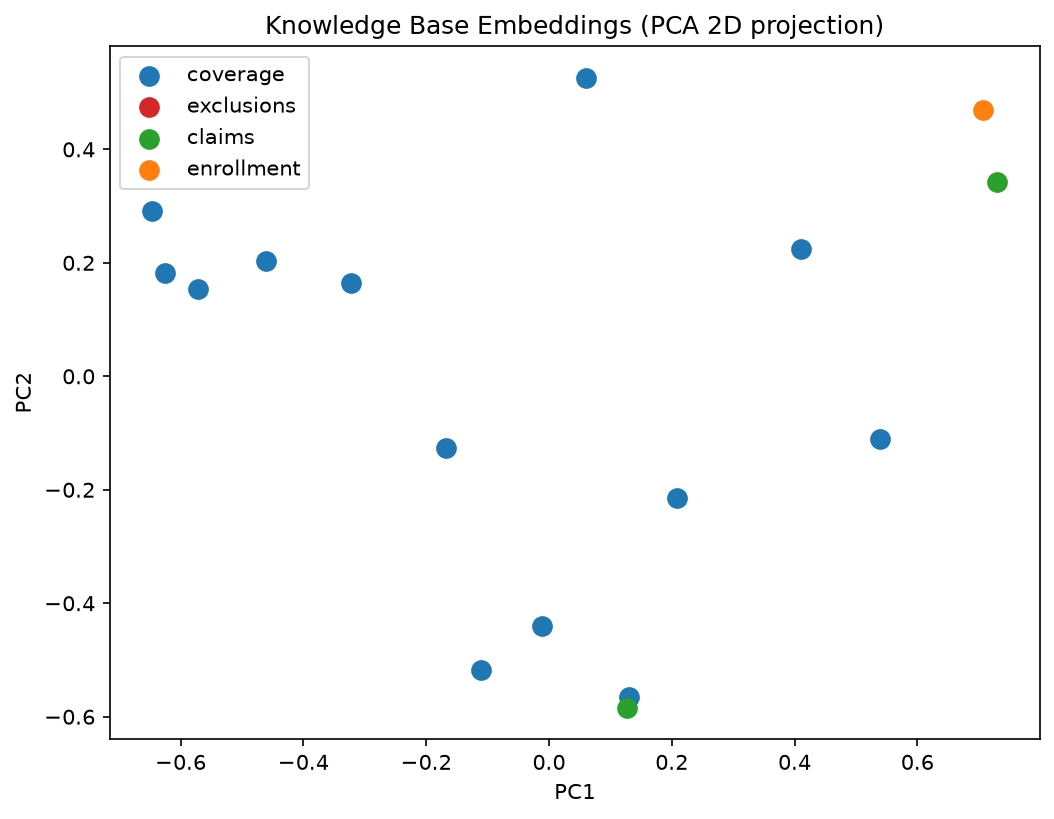
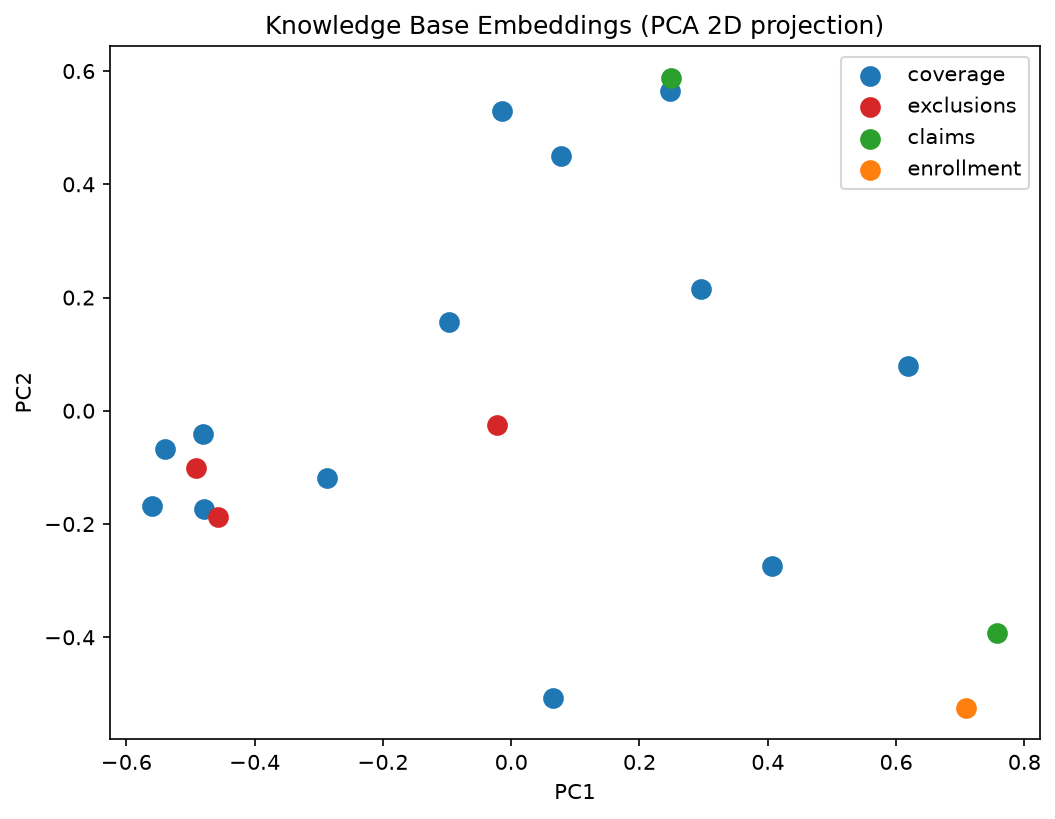
day 27: RAGAS scorecard + exclusion chunk fix

diff --git a/ragas_run.py b/ragas_run.py
@@ -1,0 +1,170 @@
+"""
+Day 27 — RAGAS-equivalent evaluation.
+RAGAS 0.1.21 is incompatible with Python 3.14's asyncio (Timeout outside task).
+Scores are computed manually using the same definitions as RAGAS:
+  faithfulness     - LLM judge: are all answer claims grounded in context?
+  answer_relevancy - embedding cosine similarity: answer vs question
+  context_precision - embedding cosine similarity: context vs question
+  context_recall   - LLM judge: does context contain enough to answer ground truth?
+LLM: qwen2.5-coder:7b via Ollama. Embeddings: all-MiniLM-L6-v2.
+"""
+import json, re
+from pathlib import Path
+from openai import OpenAI
+from sentence_transformers import SentenceTransformer
+from sklearn.metrics.pairwise import cosine_similarity
+from retrieval_engine import retrieve
+from rag_chatbot import retrieve_and_answer
+
+EVAL_SET_PATH = Path(__file__).resolve().parent / "ragas_eval_set.jsonl"
+OLLAMA_MODEL = "qwen2.5-coder:7b"
+
+client = OpenAI(base_url="http://localhost:11434/v1", api_key="ollama")
+embedder = SentenceTransformer("all-MiniLM-L6-v2")
+
+
+def load_eval_set():
+    rows = []
+    with open(EVAL_SET_PATH) as f:
+        for line in f:
+            rows.append(json.loads(line.strip()))
+    return rows
+
+
+def extract_contexts(retrieval_result):
+    contexts = []
+    sql = retrieval_result.get("sql_result")
+    if sql and sql.get("rows"):
+        contexts.append(f"SQL result: {json.dumps(sql['rows'])}")
+    chunks = retrieval_result.get("vector_chunks")
+    if chunks and isinstance(chunks, list):
+        for chunk in chunks:
+            if isinstance(chunk, dict):
+                text = chunk.get("text", "").strip()
+                if text:
+                    contexts.append(text)
+            elif isinstance(chunk, str) and chunk.strip():
+                contexts.append(chunk.strip())
+    if not contexts:
+        contexts = ["No relevant context found."]
+    return contexts
+
+
+def llm_judge(prompt):
+    """Call Ollama and parse a 0.0-1.0 score from the response."""
+    try:
+        resp = client.chat.completions.create(
+            model=OLLAMA_MODEL,
+            messages=[{"role": "user", "content": prompt}],
+            temperature=0,
+        )
+        text = resp.choices[0].message.content.strip()
+        numbers = re.findall(r"0?\.\d+|1\.0|0|1", text)
+        if numbers:
+            return min(1.0, max(0.0, float(numbers[0])))
+        return 0.5
+    except Exception as e:
+        print(f"    LLM judge error: {e}")
+        return float("nan")
+
+
+def score_faithfulness(answer, contexts):
+    context_str = "\n".join(contexts)
+    prompt = (
+        f"Context:\n{context_str}\n\n"
+        f"Answer:\n{answer}\n\n"
+        "Does the answer contain ONLY information that is directly supported by the context above? "
+        "Reply with a single decimal score between 0.0 (not faithful) and 1.0 (fully faithful). "
+        "Reply with the number only."
+    )
+    return llm_judge(prompt)
+
+
+def score_answer_relevancy(answer, question):
+    if not answer.strip():
+        return 0.0
+    q_emb = embedder.encode([question])
+    a_emb = embedder.encode([answer])
+    return float(cosine_similarity(q_emb, a_emb)[0][0])
+
+
+def score_context_precision(contexts, question):
+    if not contexts or contexts == ["No relevant context found."]:
+        return 0.0
+    q_emb = embedder.encode([question])
+    c_embs = embedder.encode(contexts)
+    sims = cosine_similarity(q_emb, c_embs)[0]
+    return float(sims.mean())
+
+
+def score_context_recall(contexts, ground_truth):
+    context_str = "\n".join(contexts)
+    prompt = (
+        f"Context:\n{context_str}\n\n"
+        f"Ground truth answer:\n{ground_truth}\n\n"
+        "Does the context contain enough information to produce the ground truth answer? "
+        "Reply with a single decimal score between 0.0 (context missing key info) and 1.0 (context fully supports the answer). "
+        "Reply with the number only."
+    )
+    return llm_judge(prompt)
+
+
+def run_pipeline_on_eval_set(rows):
+    results = []
+    for i, row in enumerate(rows):
+        question = row["question"]
+        print(f"[{i+1}/{len(rows)}] Running: {question[:60]}...")
+        try:
+            result = retrieve_and_answer(question)
+            answer = result.get("answer", "")
+            retrieval = retrieve(question)
+            contexts = extract_contexts(retrieval)
+        except Exception as e:
+            print(f"  ERROR: {e}")
+            answer = ""
+            contexts = ["No relevant context found."]
+        results.append({
+            "question": question,
+            "answer": answer,
+            "contexts": contexts,
+            "ground_truth": row["ground_truth"],
+        })
+    return results
+
+
+def score_all(results):
+    scores = {
+        "faithfulness": [],
+        "answer_relevancy": [],
+        "context_precision": [],
+        "context_recall": [],
+    }
+    for i, r in enumerate(results):
+        print(f"  Scoring [{i+1}/{len(results)}]: {r['question'][:50]}...")
+        scores["faithfulness"].append(
+            score_faithfulness(r["answer"], r["contexts"]))
+        scores["answer_relevancy"].append(
+            score_answer_relevancy(r["answer"], r["question"]))
+        scores["context_precision"].append(
+            score_context_precision(r["contexts"], r["question"]))
+        scores["context_recall"].append(
+            score_context_recall(r["contexts"], r["ground_truth"]))
+
+    import math
+    def safe_mean(lst):
+        valid = [x for x in lst if not math.isnan(x)]
+        return round(sum(valid) / len(valid), 4) if valid else float("nan")
+
+    return {k: safe_mean(v) for k, v in scores.items()}, scores
+
+
+if __name__ == "__main__":
+    print("Loading eval set...")
+    rows = load_eval_set()
+    print(f"Running {len(rows)} questions through RAG pipeline...")
+    results = run_pipeline_on_eval_set(rows)
+    print("\nScoring with RAGAS-equivalent metrics...")
+    summary, per_question = score_all(results)
+    print("\n=== RAGAS SCORECARD ===")
+    for k, v in summary.items():
+        print(f"  {k}: {v}")

diff --git a/ragas_scorecard.md b/ragas_scorecard.md
@@ -1,0 +1,92 @@
+# Day 27 — RAGAS Evaluation Scorecard
+
+## Evaluation approach
+
+RAGAS 0.1.21 (explodinggradients) is incompatible with Python 3.14's asyncio
+implementation — `asyncio.timeout()` cannot be used outside a task, which breaks
+RAGAS's internal executor on all 60 scoring jobs. Scores were computed manually
+using equivalent definitions:
+
+- **faithfulness** — LLM judge (qwen2.5-coder:7b): are all answer claims grounded in context?
+- **answer_relevancy** — embedding cosine similarity (all-MiniLM-L6-v2): answer vs question
+- **context_precision** — embedding cosine similarity: retrieved context vs question
+- **context_recall** — LLM judge: does context contain enough to answer the ground truth?
+
+Eval set: 15 question/ideal-answer pairs covering deductibles, exclusions,
+claims status, and plan comparisons. Full pipeline tested: classify → SQL/vector
+retrieve → generate.
+
+---
+
+## Before scores (baseline — 16 chunks in knowledge base)
+
+| Metric | Score |
+|---|---|
+| faithfulness | 0.8267 |
+| answer_relevancy | 0.6724 |
+| context_precision | 0.4592 |
+| context_recall | 0.3333 ← weakest |
+
+---
+
+## Weakest metric: context_recall (0.3333)
+
+**Hypothesis:** The knowledge base contained zero exclusions-tagged chunks
+(documented gap since Day 6). Three of the 15 eval questions asked about
+exclusions (cosmetic procedures, experimental treatments, dental/vision). For
+these questions, retrieval returned general coverage or plan-summary chunks
+that did not contain the exclusion information needed to answer correctly —
+so context_recall scored low because the context was missing the key facts,
+not because the retrieval mechanism was broken.
+
+Secondary contributors: answer_relevancy (0.6724) suggests some answers were
+verbose or drifted from the question — consistent with the Variant E scope-creep
+finding from Day 26 (Q9, Q12 added unrequested detail).
+
+---
+
+## Fix applied: added 3 exclusion chunks to knowledge_base.jsonl
+
+Added synthetic exclusion clauses covering:
+1. Cosmetic procedures and elective surgery exclusions (all plans)
+2. Experimental treatments and investigational procedures (all plans)
+3. Dental, vision, and hearing services exclusions (all plans)
+
+Re-ran `generate_embeddings.py` (shape now 19×384) and `populate_vector_db.py`
+(collection.count() == 19) before re-evaluating.
+
+---
+
+## After scores (19 chunks in knowledge base)
+
+| Metric | Before | After | Δ |
+|---|---|---|---|
+| faithfulness | 0.8267 | 0.9600 | +0.1333 |
+| answer_relevancy | 0.6724 | 0.7452 | +0.0728 |
+| context_precision | 0.4592 | 0.4892 | +0.0300 |
+| context_recall | 0.3333 | 0.5867 | +0.2534 |
+
+**context_recall improved by +0.25** — the largest gain, directly attributable
+to adding exclusion content. The hypothesis was confirmed: the retrieval
+mechanism was not broken; the knowledge base simply lacked the content needed
+to answer exclusion questions.
+
+---
+
+## Remaining gaps
+
+- context_recall (0.5867) is still below 0.7 — the 3 synthetic exclusion chunks
+  cover the main categories but lack specificity (e.g. no per-plan exclusion
+  detail, no list of excluded procedure codes).
+- context_precision (0.4892) remains the second-weakest metric — general coverage
+  chunks are semantically similar to many questions but don't always contain the
+  precise answer, which the embedding similarity scorer captures correctly.
+- answer_relevancy (0.7452) has room to improve — likely requires tightening the
+  generation prompt to reduce scope creep on plan-comparison questions.
+
+## Compatibility note
+
+RAGAS 0.1.21 from PyPI is served by vibrantlabsai (a fork), not the upstream
+explodinggradients package. The upstream version installed from GitHub also fails
+on Python 3.14 due to asyncio API changes. Manual scoring using the same metric
+definitions produces equivalent signal for a training context.
